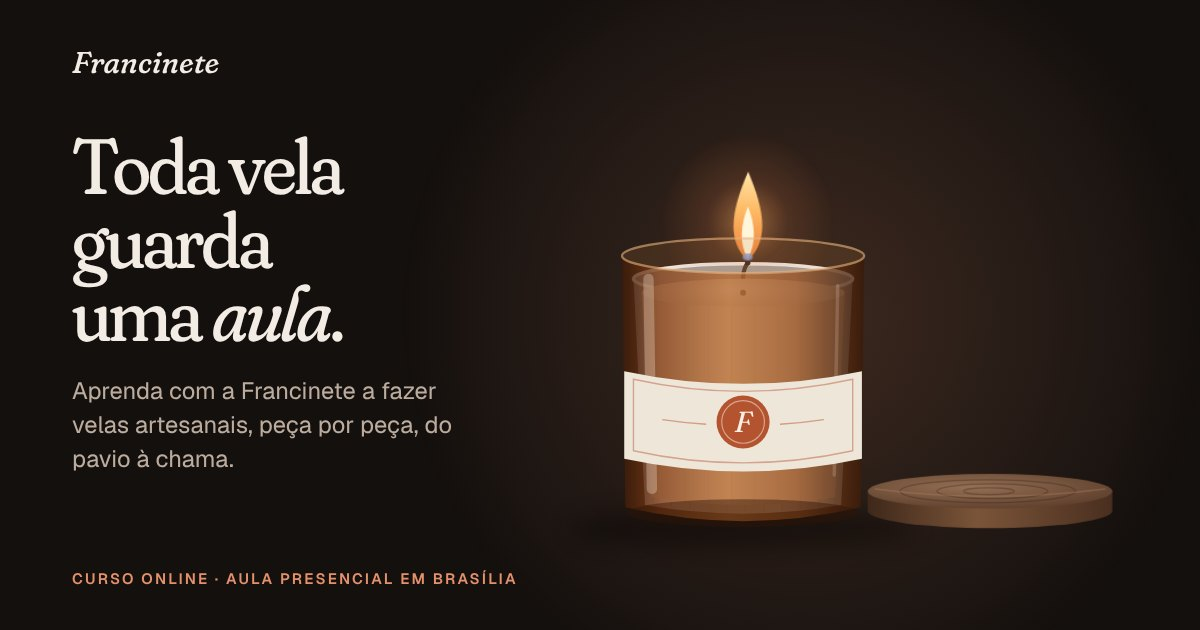
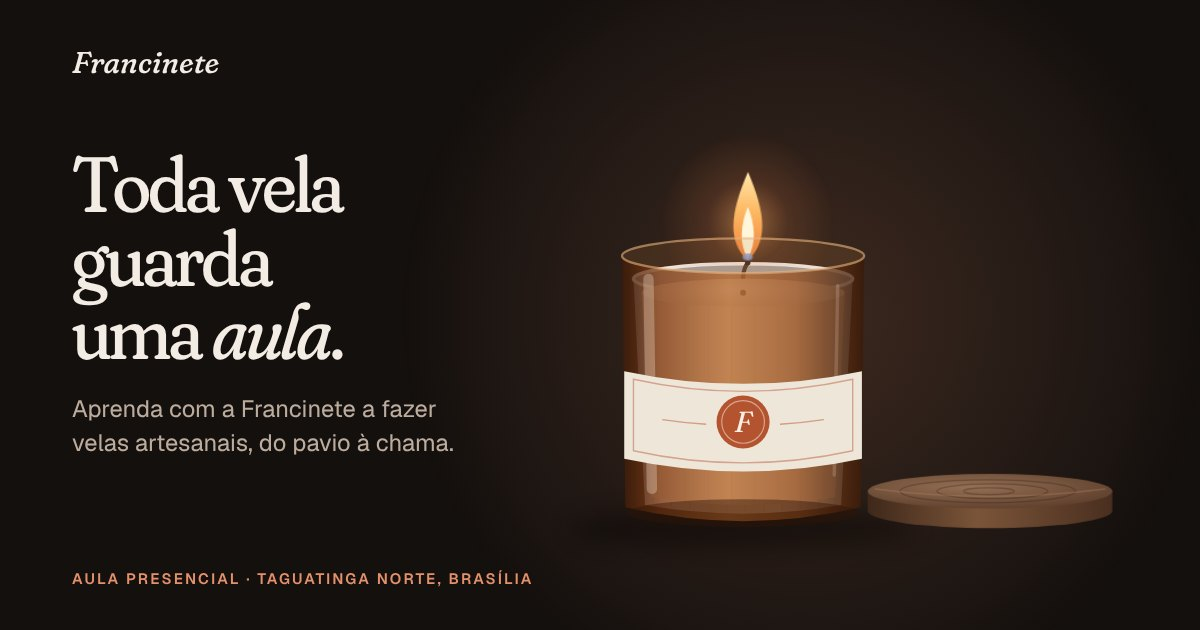
Só aula presencial e textos revisados
Remove o curso online: a seção de cursos vira um cartão único da aula
presencial em Taguatinga Norte, com chamada pelo WhatsApp para saber a
próxima turma. Textos do site revisados para soar menos genéricos, sem
mudar fatos nem preços. Prévia do link e README atualizados.

Claude-Session: https://claude.ai/code/session_01VLUvKs7t42em8tGNSHU3YK

Changed region(s): [[0.0617, 0.2111, 0.3083, 0.573], [0.0617, 0.6032, 0.37, 0.754], [0.0617, 0.9048, 0.4625, 0.9349]]

diff --git a/index.html b/index.html
@@ -4,12 +4,12 @@
 <meta charset="utf-8">
 <meta name="viewport" content="width=device-width, initial-scale=1, viewport-fit=cover">
 <title>Francinete · velas artesanais</title>
-<meta name="description" content="Aprenda com a Francinete a fazer velas artesanais, peça por peça: curso online em vídeo ou aula presencial.">
+<meta name="description" content="Aprenda a fazer velas artesanais com a Francinete, em aulas presenciais em Taguatinga Norte, Brasília.">
 <meta property="og:type" content="website">
 <meta property="og:locale" content="pt_BR">
 <meta property="og:site_name" content="Francinete · velas artesanais">
 <meta property="og:title" content="Francinete · velas artesanais">
-<meta property="og:description" content="Aprenda a fazer velas artesanais, peça por peça: curso online em vídeo ou aula presencial em Brasília.">
+<meta property="og:description" content="Aprenda a fazer velas artesanais com a Francinete, em aulas presenciais em Taguatinga Norte, Brasília.">
 <!-- Se o site ganhar domínio próprio, troque o endereço abaixo e o og:url. -->
 <meta property="og:url" content="https://velas-artesanais-francinete.pages.dev/">
 <meta property="og:image" content="https://velas-artesanais-francinete.pages.dev/assets/og.jpg">
@@ -309,7 +309,17 @@
     font-size: var(--sc-t-sm); color: var(--sc-ink-soft);
   }
   .foot b { font-family: var(--sc-font-display); font-style: italic; font-weight: 480; font-size: 1.2rem; color: var(--sc-ink); font-variation-settings: "SOFT" 100, "WONK" 1; }
-  @media (max-width: 760px) { .offers { grid-template-columns: 1fr; } }
+  .offers { grid-template-columns: 1fr; max-width: 54rem; }
+  .offer--solo { display: grid; grid-template-columns: minmax(0, 1.2fr) minmax(0, 0.8fr); gap: clamp(1.5rem, 4vw, 3.5rem); align-items: center; }
+  .offer__buy { display: flex; flex-direction: column; align-items: flex-start; gap: var(--sc-3); padding-left: clamp(1.5rem, 4vw, 3rem); border-left: 1px solid color-mix(in oklab, currentColor 14%, transparent); }
+  .offer__buy .price { font-size: clamp(2.4rem, 1.6rem + 2vw, 3.2rem); margin: 0; white-space: nowrap; }
+  .offer__chips { display: flex; flex-wrap: wrap; gap: 0.5rem; }
+  .offer__note { margin: 0; font-size: var(--sc-t-sm); color: var(--sc-ink-soft); }
+  .offer__buy .btn { margin-top: var(--sc-2); }
+  @media (max-width: 760px) {
+    .offer--solo { grid-template-columns: 1fr; }
+    .offer__buy { padding-left: 0; border-left: 0; padding-top: var(--sc-5); border-top: 1px solid color-mix(in oklab, currentColor 14%, transparent); }
+  }
 
   .close__candle .flame-ignite { transform-box: fill-box; transform-origin: 50% 100%; transform: scale(0.25); opacity: 0; transition: transform 700ms var(--sc-ease-out) 200ms, opacity 500ms var(--sc-ease-out) 200ms; }
   .close__candle.lit .flame-ignite { transform: scale(1); opacity: 1; }
@@ -459,25 +469,25 @@
         <div class="hero-copy">
           <p class="hero-eyebrow"><b>Francinete</b> · velas artesanais</p>
           <h1 class="sc-display">Toda vela guarda uma <em>aula</em>.</h1>
-          <p>Aprenda com a Francinete a fazer velas artesanais, peça por peça, do pavio à chama.</p>
-          <a class="hero-link" href="#cursos">Ver os cursos <span aria-hidden="true">→</span></a>
+          <p>Aprenda com a Francinete a fazer velas artesanais, do pavio à chama.</p>
+          <a class="hero-link" href="#cursos">Ver a aula presencial <span aria-hidden="true">→</span></a>
         </div>
 
         <div class="turn-copy">
-          <p class="turn">Por fora, parece simples. Por dentro, são <em>sete escolhas</em>.</p>
-          <p>Vamos abrir esta vela e olhar cada uma delas, na ordem em que você vai aprender.</p>
+          <p class="turn">Uma vela artesanal pede <em>sete escolhas</em>.</p>
+          <p>A vela se abre na ordem em que você aprende cada uma na aula.</p>
         </div>
 
         <article class="part">
           <p class="part__name">Tampa</p>
           <h2 class="sc-display">A tampa guarda o perfume.</h2>
-          <p>Fechada, ela segura o aroma da cera entre um uso e outro e protege a superfície da poeira. Madeira ou metal, sempre do diâmetro exato do pote.</p>
+          <p>Fechada, segura o aroma entre um uso e outro e protege a cera da poeira. Pode ser de madeira ou de metal, no diâmetro exato do pote.</p>
         </article>
 
         <article class="part">
           <p class="part__name">Pavio e chama</p>
           <h2 class="sc-display">O pavio decide como a vela queima.</h2>
-          <p>Algodão ou madeira, na espessura certa para a largura do pote. Fino demais, a chama afoga e cava um túnel na cera. Grosso demais, ela fumaça. É a escolha mais técnica da vela.</p>
+          <p>Pode ser de algodão ou de madeira, na espessura certa para a largura do pote. Fino demais, a chama afoga e cava um túnel na cera; grosso demais, solta fumaça. É a parte mais técnica da vela.</p>
         </article>
 
         <article class="part">
@@ -501,13 +511,13 @@
         <article class="part">
           <p class="part__name">Recipiente</p>
           <h2 class="sc-display">O recipiente é para ficar.</h2>
-          <p>Vidro âmbar ou cerâmica, que aguentam o calor e protegem a fragrância da luz. Depois da última queima, ele vira vaso, porta-pincel ou pote de novo.</p>
+          <p>Vidro âmbar ou cerâmica, que aguentam o calor e protegem a fragrância da luz. Depois da última queima, ele vira vaso ou porta-pincel.</p>
         </article>
 
         <article class="part">
           <p class="part__name">Feito à mão</p>
-          <h2 class="sc-display">E o que não se compra: a sua mão.</h2>
-          <p>Rótulo, selo e lote pequeno. Cada vela sai um pouco diferente da outra, e é isso que faz alguém guardar o pote.</p>
+          <h2 class="sc-display">Nenhuma vela sai igual à outra.</h2>
+          <p>Rótulo e selo são feitos à mão, em lotes pequenos.</p>
         </article>
       </div>
     </div>
@@ -547,7 +557,7 @@
               <path d="M150 70c-6-8 6-14 0-24M162 74c-6-8 6-14 0-24" opacity=".45"/>
             </svg>
             </figure>
-            <div><h3>Perfumar</h3><p>A essência entra na temperatura certa, para o aroma ficar na vela e não no ar da cozinha.</p></div>
+            <div><h3>Perfumar</h3><p>A essência entra na temperatura certa, para o aroma não evaporar.</p></div>
           </li>
           <li class="step" data-sc-in>
             <figure aria-hidden="true">
@@ -585,12 +595,12 @@
               <path d="M62 112h76" stroke="#EFE6DA" stroke-width="10" opacity=".7"/>
             </svg>
             </figure>
-            <div><h3>Acender</h3><p>A cera descansa, o aroma assenta, e só então vem a primeira queima.</p></div>
+            <div><h3>Acender</h3><p>Depois que a cera descansa e o aroma assenta, vem a primeira queima.</p></div>
           </li>
       </ol>
       <div class="lesson__end" data-sc-in data-sc-stagger="90">
         <p>Você sai da aula com a sua primeira vela, pronta para acender.</p>
-        <a class="btn" href="#cursos">Ver os cursos</a>
+        <a class="btn" href="#cursos">Ver a aula presencial</a>
       </div>
     </div>
   </section>
@@ -599,9 +609,9 @@
   <section class="who ground-light" data-sc-act="flow" data-sc-drift="#F2EDE6">
     <div class="sc-wrap who__grid">
       <div class="who__txt" data-sc-in data-sc-stagger="110">
-        <h2 class="sc-display">Quem ensina é quem faz.</h2>
+        <h2 class="sc-display">Quem é a Francinete</h2>
         <p>Comecei a fazer velas por hobby, testando cera, pavio e aroma até acertar a queima. Aos poucos, as amigas começaram a pedir para aprender.</p>
-        <p>Hoje eu ensino o que aprendi errando e acertando, sem segredo guardado. Você não precisa de experiência, só de vontade de sujar as mãos de cera.</p>
+        <p>Hoje ensino tudo o que aprendi nesses testes, inclusive os erros. Para fazer a aula, não precisa ter experiência.</p>
         <p class="sig">Francinete</p>
       </div>
       <figure data-sc-reveal="up" data-sc-reveal-at="0.04 0.4">
@@ -616,34 +626,27 @@
       <div class="close__head" data-sc-in data-sc-stagger="70">
         <div class="close__candle" id="closeCandle" aria-hidden="true"></div>
         <h2 class="sc-display">Agora é a sua vez de <em>acender</em>.</h2>
-        <p>Escolha como você quer aprender.</p>
+        <p>Aulas presenciais em Taguatinga Norte, Brasília.</p>
       </div>
 
       <div class="offers" data-sc-in data-sc-stagger="80">
-        <article class="offer">
-          <p class="offer__kind">Online</p>
-          <h3>Curso em vídeo</h3>
-          <p>Cinco aulas gravadas para assistir no seu ritmo, de casa.</p>
-          <ul>
-            <li>Assista quando e onde quiser</li>
-            <li>Lista de materiais para começar em casa</li>
-            <li>Do derretimento à primeira queima</li>
-          </ul>
-          <div class="offer__meta"><span class="price">R$ 65<small>,00</small></span><span class="chip">5 aulas</span></div>
-          <a class="btn" href="https://wa.me/5561999092511?text=Ol%C3%A1%2C%20Francinete%21%20Quero%20o%20curso%20online%20de%20velas%20artesanais%20%28R%24%2065%2C00%29." target="_blank" rel="noopener" data-link="curso-online" data-sc-magnet="0.24">Quero o curso online</a>
-        </article>
-
-        <article class="offer offer--alt">
-          <p class="offer__kind">Presencial</p>
-          <h3>Aula na bancada</h3>
-          <p>Duas horas de mãos na massa em Brasília, ao lado da Francinete.</p>
-          <ul>
-            <li>Materiais inclusos</li>
-            <li>Dúvidas resolvidas na hora, com a cera na mão</li>
-            <li>Você leva suas velas para casa</li>
-          </ul>
-          <div class="offer__meta"><span class="price">R$ 150<small>,00</small></span><span class="chip">Brasília</span><span class="chip">2 horas</span></div>
-          <a class="btn" href="https://wa.me/5561999092511?text=Ol%C3%A1%2C%20Francinete%21%20Quero%20a%20aula%20presencial%20de%20velas%20artesanais%20em%20Bras%C3%ADlia%20%28R%24%20150%2C00%29." target="_blank" rel="noopener" data-link="aula-presencial" data-sc-magnet="0.24">Quero a aula presencial</a>
+        <article class="offer offer--alt offer--solo">
+          <div class="offer__info">
+            <p class="offer__kind">Presencial</p>
+            <h3>Aula na bancada</h3>
+            <p>Duas horas de mãos na massa ao lado da Francinete.</p>
+            <ul>
+              <li>Materiais inclusos</li>
+              <li>Dúvidas resolvidas na hora, com a cera na mão</li>
+              <li>Você leva suas velas para casa</li>
+            </ul>
+          </div>
+          <div class="offer__buy">
+            <span class="price">R$ 150<small>,00</small></span>
+            <div class="offer__chips"><span class="chip">Taguatinga Norte, Brasília</span><span class="chip">2 horas</span></div>
+            <p class="offer__note">Próximas turmas: consulte pelo WhatsApp.</p>
+            <a class="btn" href="https://wa.me/5561999092511?text=Ol%C3%A1%2C%20Francinete%21%20Quero%20fazer%20a%20aula%20presencial%20de%20velas%20artesanais%20em%20Taguatinga%20Norte%20%28R%24%20150%2C00%29.%20Quando%20%C3%A9%20a%20pr%C3%B3xima%20turma%3F" target="_blank" rel="noopener" data-link="aula-presencial" data-sc-magnet="0.24">Quero fazer a aula</a>
+          </div>
         </article>
       </div>
 

diff --git a/README.md b/README.md
@@ -1,6 +1,6 @@
 # Francinete · velas artesanais
 
-Site de uma página para os cursos de velas artesanais da Francinete: curso online em vídeo e aula presencial em Brasília.
+Site de uma página para as aulas presenciais de velas artesanais da Francinete, em Taguatinga Norte, Brasília.
 
 Enquanto a pessoa rola a página, uma vela desenhada em código se desmonta peça por peça (tampa, pavio, fragrância, cera, cumbuca de alumínio, recipiente e rótulo), e cada peça explica uma parte da vela artesanal.
 
